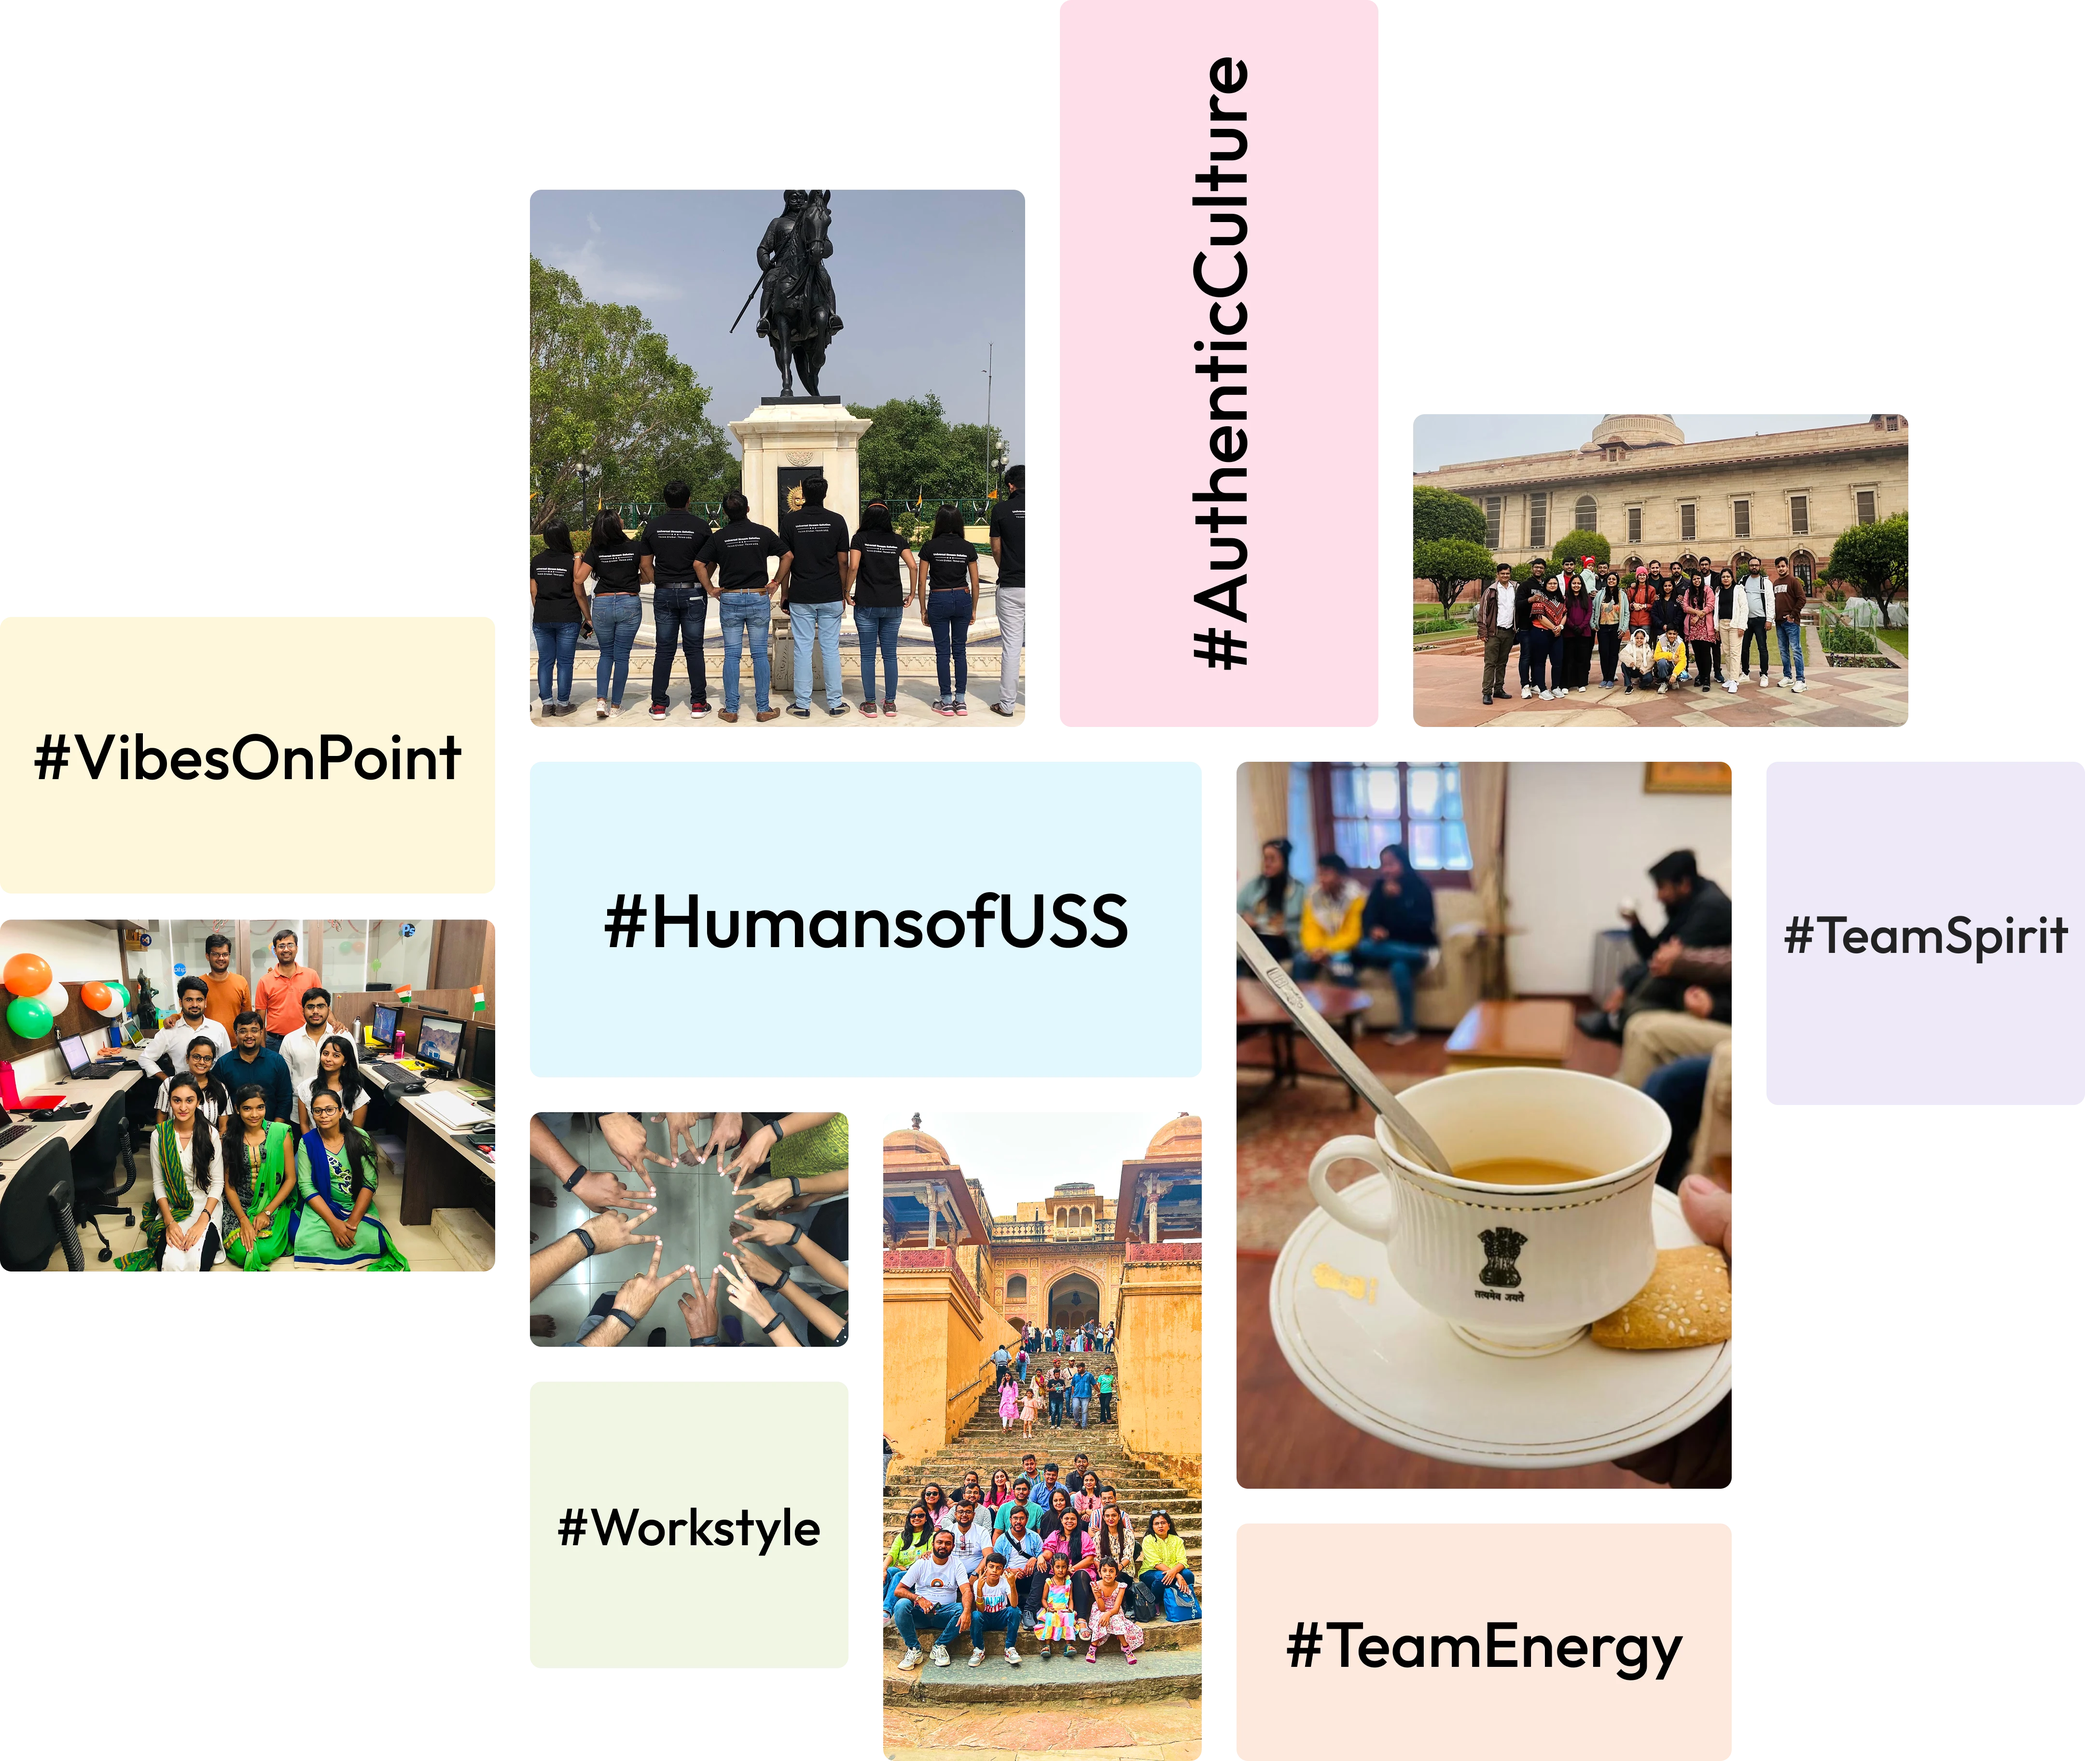
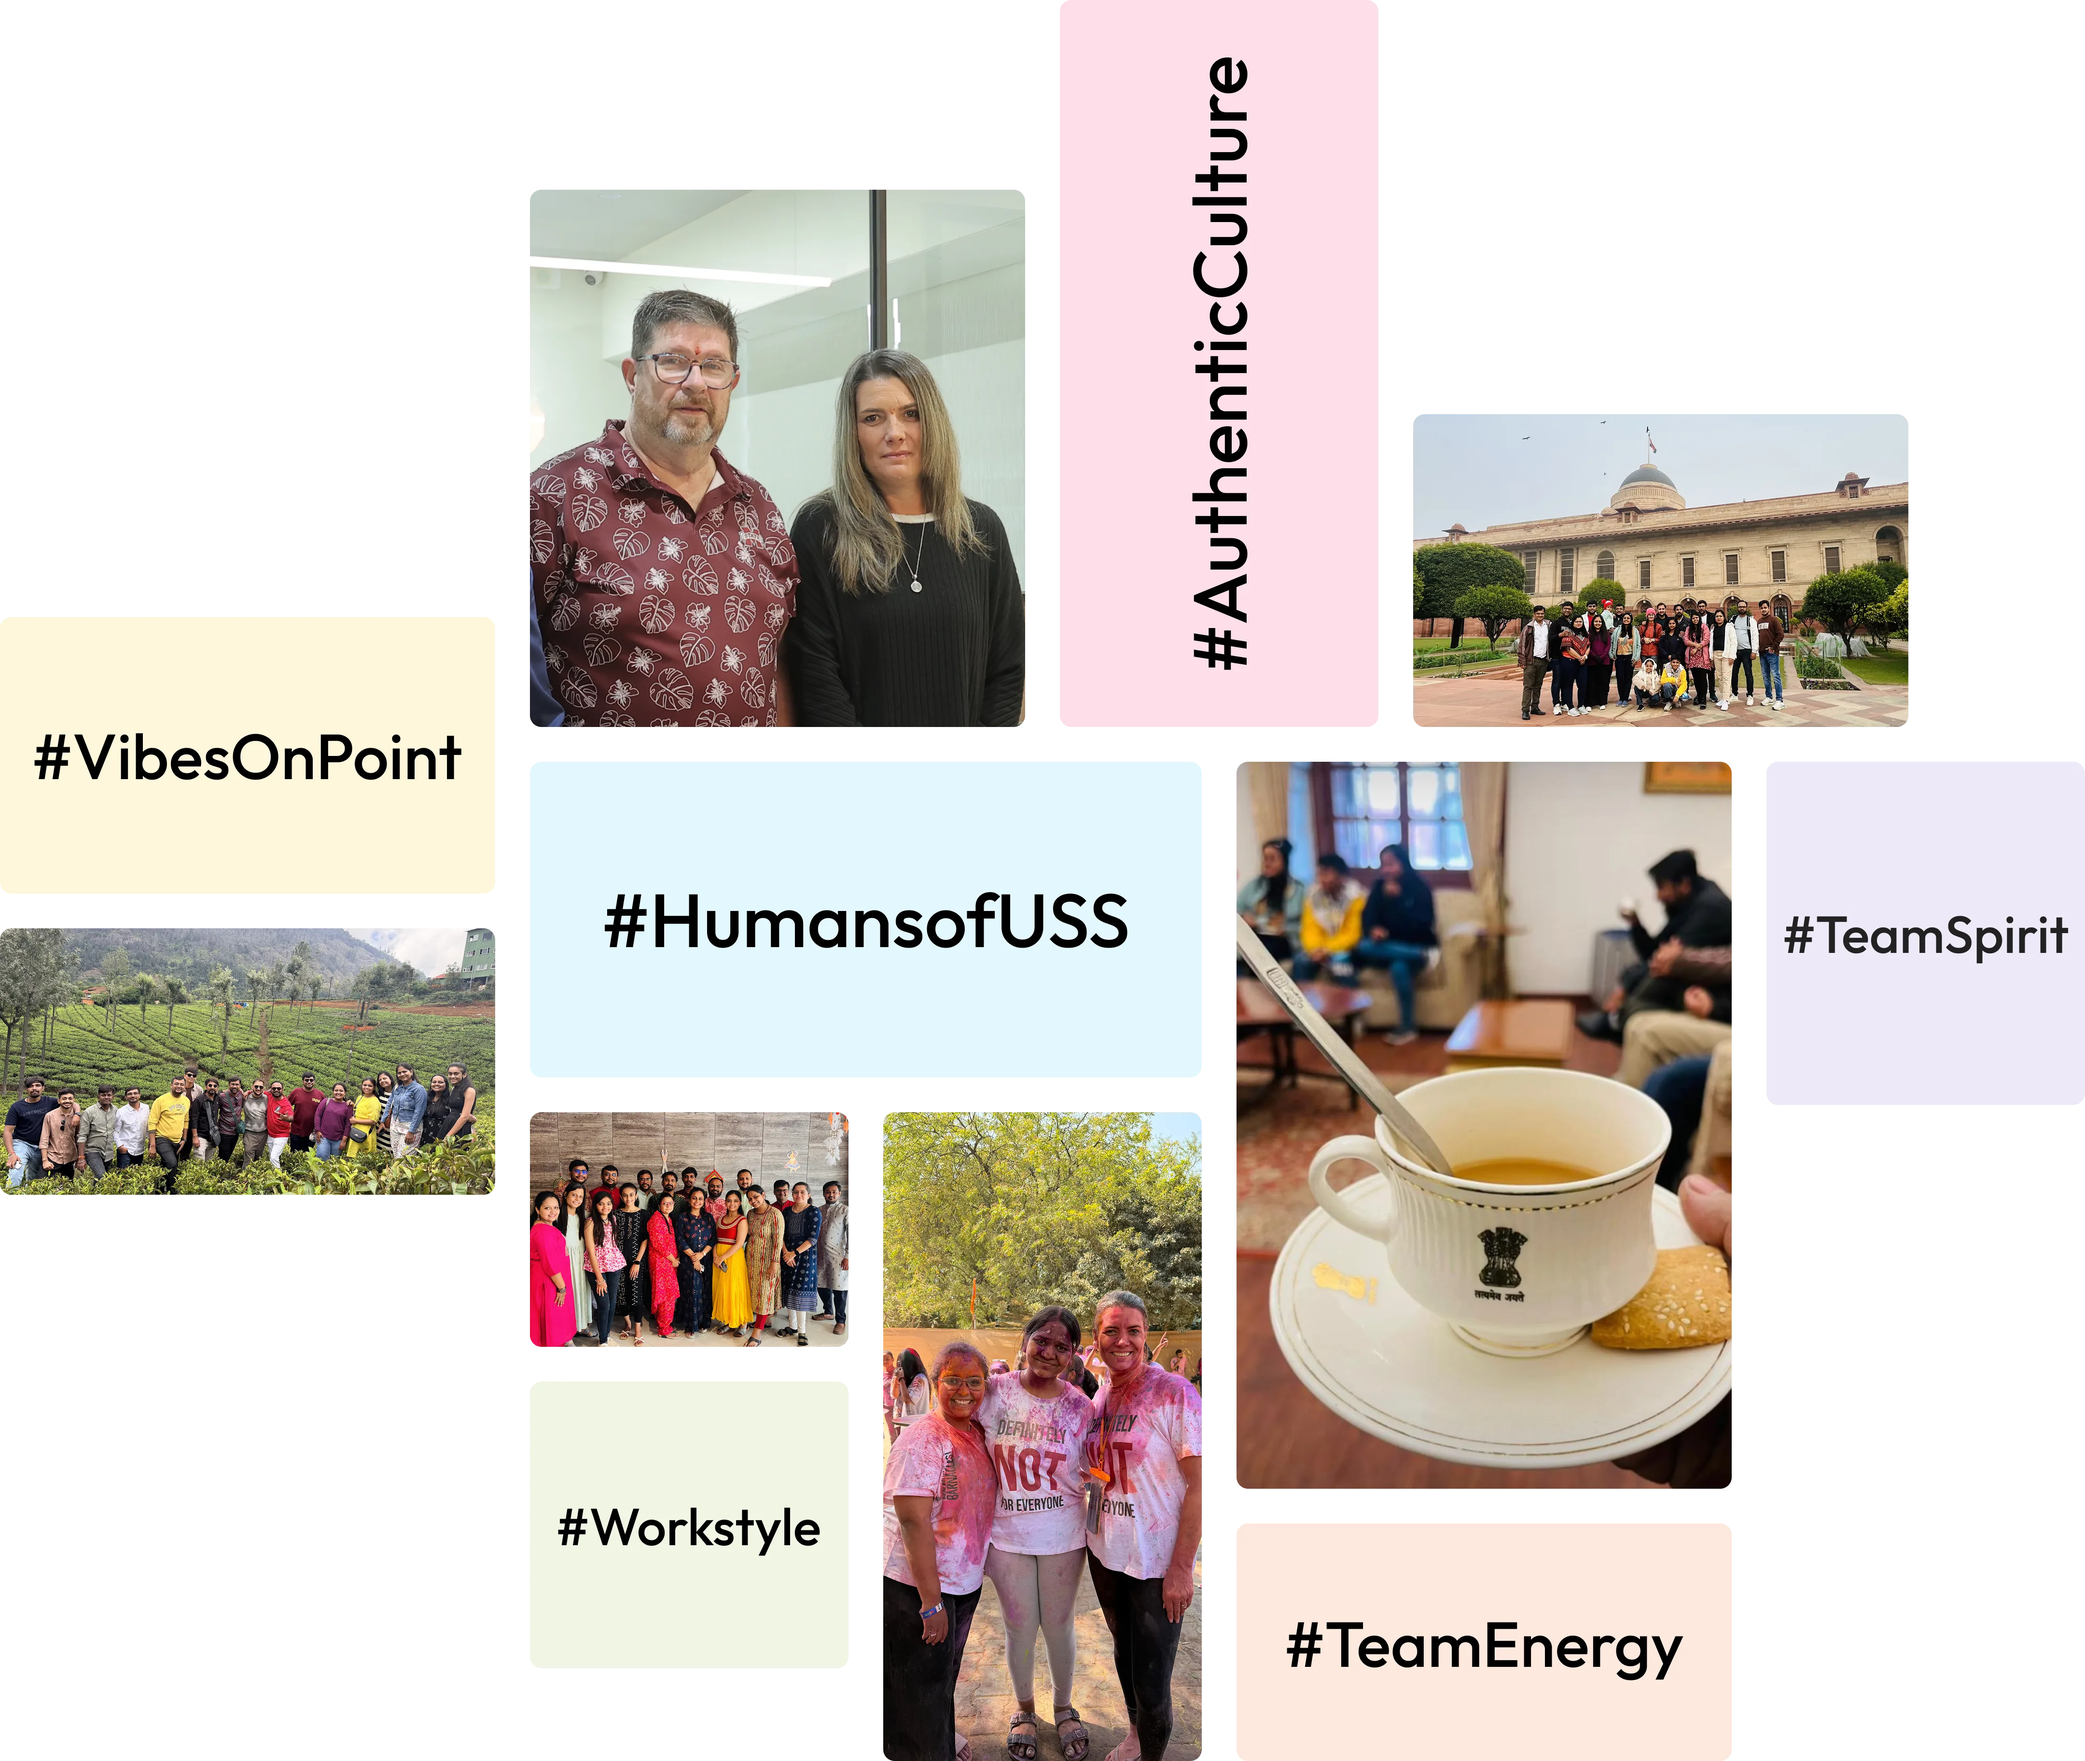
Update images for Celebrating section in CompLife.js new file:   public/images/client-img-1.webp new file:   public/images/client-img-2.webp new file:   public/images/client-img-3.webp new file:   public/images/client-img-4.webp new file:   public/images/client-img-5.webp new file:   public/images/c

Changed region(s): [[0.0, 0.5, 0.5938, 1.0], [0.25, 0.0938, 0.5, 0.4375], [0.6562, 0.2188, 0.9375, 0.4375]]

diff --git a/src/app/life/CompLife.js b/src/app/life/CompLife.js
@@ -179,6 +179,40 @@ const tripImages = {
     "/images/openingdoors6.webp",
     "/images/openingdoors7.webp",
   ],
+  client: [
+    "/images/client-img-1.webp",
+    "/images/client-img-2.webp",
+    "/images/client-img-3.webp",
+    "/images/client-img-4.webp",
+    "/images/client-img-5.webp",
+    "/images/client-img-6.webp",
+  ],
+  holi: [
+    "/images/holi-img-1.webp",
+    "/images/holi-img-2.webp",
+    "/images/holi-img-3.webp",
+    "/images/holi-img-4.webp",
+    "/images/holi-img-5.webp",
+    "/images/holi-img-6.webp",
+    "/images/holi-img-7.webp",
+  ],
+  ootytrip: [
+    "/images/ooty-img-1.webp",
+    "/images/ooty-img-2.webp",
+    "/images/ooty-img-3.webp",
+    "/images/ooty-img-4.webp",
+    "/images/ooty-img-5.webp",
+    "/images/ooty-img-6.webp",
+    "/images/ooty-img-7.webp",
+    "/images/ooty-img-8.webp",
+    "/images/ooty-img-9.webp",
+  ],
+  sandwichpotluck: [
+    "/images/sandwich-potluck-img-1.webp",
+    "/images/sandwich-potluck-img-2.webp",
+    "/images/sandwich-potluck-img-3.webp",
+    "/images/sandwich-potluck-img-4.webp",
+  ],
 };
 
 // Custom titles for each trip group
@@ -189,6 +223,10 @@ const tripTitles = {
   funactivity: "Play, Laugh, Celebrate!",
   udaipurtrip: "Jaipur Diaries: Adventure Awaits", 
   openingdoors: "Opening Doors to Success This Diwali",
+  client: "Creating Value Through Connection",
+  holi: "Rang Reloaded 2026",
+  ootytrip: "Ctrl + Alt + Ooty Memories",
+  sandwichpotluck: "Sandwich Potluck",
 };
 
 const fadeInUp = {
